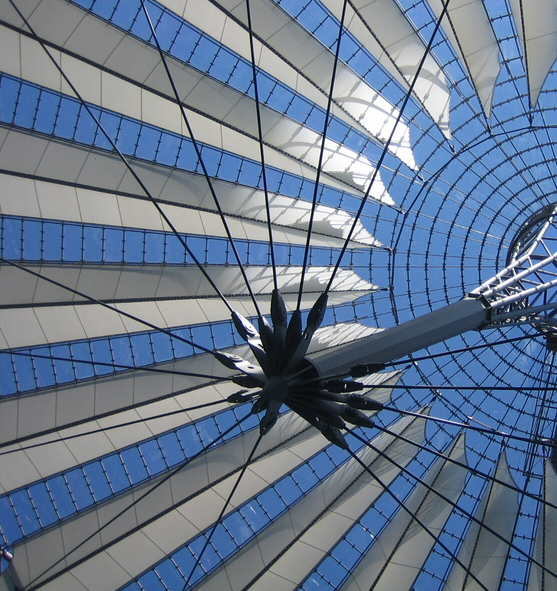
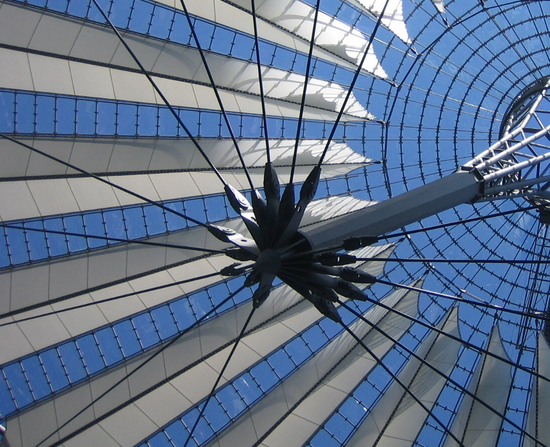
cleared layout objectFit warnings. Set text colors to white at Reviews and  ownerToClient modules

diff --git a/components/owner to client/ownerToClient.jsx b/components/owner to client/ownerToClient.jsx
@@ -1,90 +1,38 @@
 import Image from "next/image"
-import { FaArrowLeftLong, FaBuildingUser, FaFileLines, FaKey } from "react-icons/fa6"
-import { MdEmail, MdOutlineMarkEmailRead } from "react-icons/md"
+import { FaRegFileAlt } from "react-icons/fa"
+
+import { MdOutlineMarkEmailRead } from "react-icons/md"
 
 const OwnerToClient = () => {
     return (
-        <div className="flex md:flex-row flex-col items-center justify-center gap-20 mx-auto md:w-[90%] w-[100%]">
-            <div className="md:w-1/2 w-full">
-                <div>
-                    <div className="flex items-start justify-center rounded-md border-2 border-gray-200 max-h-[350px] p-10">
-                        <div>
-                            <h3 className="text-gray-900 font-bold text-2xl mb-1">For Renters</h3>
-                            <p className="text-white">Find your dream rental property. Bookmark properties and contact owners.</p>
-                        </div>
-                    </div>
-                    <div className="flex items-center justify-center mx-auto w-[50%] h-[100px] gap-10 p-10">
-                        <div className="flex items-start justify-center bg-transparent">
-                            <div className="flex items-start justify-start h-[100px] bg-transparent animate-topToBottom">  <MdEmail className="text-3xl" /> Email </div>
-                        </div>
-                        <div className="flex items-start justify-center bg-transparent ">
-                            <div className="flex items-end justify-end h-[100px] delay-300  bg-transparent animate-bottomToTop">  <FaFileLines className="text-3xl" />Confirmation</div>
-                        </div>
-                    </div>
 
-                    <div className="flex items-start justify-center rounded-md border-2 border-gray-200 max-h-[350px] p-10">
-                        <div>
-                            <h3 className="text-gray-900 font-bold text-2xl mb-1 ">For Property Owners</h3>
-                            <p className="text-white">Find your dream rental property. Bookmark properties and contact owners.</p>
-                        </div>
+        <div className="flex flex-col items-center justify-center border-[0.3px] border-blue-900 rounded-md p-5">
+            <div className="flex items-start justify-center  min-h-[100px]">
+                <div className="flex items-center justify-center gap-10 text-white w-full h-full p-5">
+
+                    <div>
+                        <h3 className="font-bold text-2xl mb-1">For Renters</h3>
+                        <p className="text-slate-200">Find your dream rental property. Bookmark properties and contact owners directly.</p></div>
+                </div>
+            </div>
+            <div className="flex items-center justify-between mx-auto w-[40%] h-[100px]">
+                <div className="flex items-start justify-center w-[0.2px] bg-gray-900/20">
+                    <div className="flex items-start justify-start h-[100px] bg-transparent animate-topToBottom">  <MdOutlineMarkEmailRead className="text-3xl" /></div>
+                </div>
+                <div className="flex items-start justify-center w-[0.2px] bg-gray-900/20">
+                    <div className="flex items-end justify-end h-[100px] delay-300 animate-bottomToTop">  <FaRegFileAlt className="text-3xl text-gray-900" /></div>
+                </div>
+            </div>
+
+            <div className="flex items-start justify-center min-h-[100px]">
+                <div className="flex items-center justify-center gap-10 text-white w-full h-full p-5">
+                    <div className="text-right w-full">
+                        <h3 className="font-bold text-2xl mb-1 text-right">For Owners</h3>
+                        <p className="text-slate-200">Get your property information  and your conformation in your inbox. </p>
                     </div>
                 </div>
             </div>
-            <div className="flex-1">
-                <h1 className="text-3xl font-semibold text-center text-gray-900 py-5">User Reviews</h1>
-                <div>
-                    <ul role="list" className="divide-y divide-gray-100">
-                        <li className="flex justify-between gap-x-6 py-5">
-                            <div className="flex min-w-0 gap-x-4">
-                                <Image className="h-12 w-12 flex-none rounded-full bg-gray-50" width="40" height="40" src="https://images.unsplash.com/photo-1494790108377-be9c29b29330?ixlib=rb-1.2.1&ixid=eyJhcHBfaWQiOjEyMDd9&auto=format&fit=facearea&facepad=2&w=256&h=256&q=80" alt="" />
-                                <div className="min-w-0 flex-auto">
-                                    <p className="text-sm font-semibold leading-6 text-gray-900">Leslie Alexander</p>
-                                    <p className="mt-1 truncate text-xs leading-5 text-white">leslie.alexander@example.com</p>
-                                </div>
-                            </div>
-                            <div className="hidden shrink-0 sm:flex sm:flex-col sm:items-end">
-                                <p className="text-sm leading-6 text-gray-900">Co-Founder / CEO</p>
-                                <p className="mt-1 text-xs leading-5 text-white">Last seen <time dateTime="2023-01-23T13:23Z">3h ago</time></p>
-                            </div>
-                        </li>
-                        <li className="flex justify-between gap-x-6 py-5">
-                            <div className="flex min-w-0 gap-x-4">
-                                <img className="h-12 w-12 flex-none rounded-full bg-gray-50" width="40" height="40" src="https://images.unsplash.com/photo-1519244703995-f4e0f30006d5?ixlib=rb-1.2.1&ixid=eyJhcHBfaWQiOjEyMDd9&auto=format&fit=facearea&facepad=2&w=256&h=256&q=80" alt="" />
-                                <div className="min-w-0 flex-auto">
-                                    <p className="text-sm font-semibold leading-6 text-gray-900">Michael Foster</p>
-                                    <p className="mt-1 truncate text-xs leading-5 text-white">michael.foster@example.com</p>
-                                </div>
-                            </div>
-                            <div className="hidden shrink-0 sm:flex sm:flex-col sm:items-end">
-                                <p className="text-sm leading-6 text-gray-900">Co-Founder / CTO</p>
-                                <p className="mt-1 text-xs leading-5 text-white">Last seen <time dateTime="2023-01-23T13:23Z">3h ago</time></p>
-                            </div>
-                        </li>
-                        <li className="flex justify-between gap-x-6 py-5">
-                            <div className="flex min-w-0 gap-x-4">
-                                <img className="h-12 w-12 flex-none rounded-full bg-gray-50" width="40" height="40" src="https://images.unsplash.com/photo-1506794778202-cad84cf45f1d?ixlib=rb-1.2.1&ixid=eyJhcHBfaWQiOjEyMDd9&auto=format&fit=facearea&facepad=2&w=256&h=256&q=80" alt="" />
-                                <div className="min-w-0 flex-auto">
-                                    <p className="text-sm font-semibold leading-6 text-gray-900">Dries Vincent</p>
-                                    <p className="mt-1 truncate text-xs leading-5 text-white">dries.vincent@example.com</p>
-                                </div>
-                            </div>
-                            <div className="hidden shrink-0 sm:flex sm:flex-col sm:items-end">
-                                <p className="text-sm leading-6 text-gray-900">Business Relations</p>
-                                <div className="mt-1 flex items-center gap-x-1.5">
-                                    <div className="flex-none rounded-full bg-emerald-500/20 p-1">
-                                        <div className="h-1.5 w-1.5 rounded-full bg-emerald-500"></div>
-                                    </div>
-                                    <p className="text-xs leading-5 text-white">Online</p>
-                                </div>
-                            </div>
-                        </li>
-                    </ul>
-                </div>
-
-            </div>
-
         </div>
-
 
     )
 }

diff --git a/components/reviews/reviews.jsx b/components/reviews/reviews.jsx
@@ -1,0 +1,79 @@
+import Image from 'next/image'
+import React from 'react'
+
+const Reviews = () => {
+    return (
+        <div className='flex flex-col items-center justify-center md:w-1/2 w-full  border-[0.3px] border-blue-900 rounded-md p-5'>
+            <h1 className="text-3xl font-semibold text-center text-white py-5">User Reviews</h1>
+            <div className='w-full'>
+                <ul role="list" className="divide-y divide-gray-100">
+                    <li className="flex justify-between gap-x-6 py-5">
+                        <div className="flex min-w-0 gap-x-4">
+                            <Image className="h-12 w-12 flex-none rounded-full bg-gray-50" width="40" height="40" src="https://images.unsplash.com/photo-1494790108377-be9c29b29330?ixlib=rb-1.2.1&ixid=eyJhcHBfaWQiOjEyMDd9&auto=format&fit=facearea&facepad=2&w=256&h=256&q=80" alt="" />
+                            <div className="min-w-0 flex-auto">
+                                <p className="text-sm font-semibold leading-6 text-slate-200">Leslie Alexander</p>
+                                <p className="mt-1 truncate text-xs leading-5 text-white">leslie.alexander@example.com</p>
+                            </div>
+                        </div>
+                        <div className="hidden shrink-0 sm:flex sm:flex-col sm:items-end">
+                            <p className="text-sm leading-6 text-slate-200">Co-Founder / CEO</p>
+                            <p className="mt-1 text-xs leading-5 text-white">Last seen <time dateTime="2023-01-23T13:23Z">3h ago</time></p>
+                        </div>
+                    </li>
+                    <li className="flex justify-between gap-x-6 py-5">
+                        <div className="flex min-w-0 gap-x-4">
+                            <img className="h-12 w-12 flex-none rounded-full bg-gray-50" width="40" height="40" src="https://images.unsplash.com/photo-1519244703995-f4e0f30006d5?ixlib=rb-1.2.1&ixid=eyJhcHBfaWQiOjEyMDd9&auto=format&fit=facearea&facepad=2&w=256&h=256&q=80" alt="" />
+                            <div className="min-w-0 flex-auto">
+                                <p className="text-sm font-semibold leading-6 text-slate-200">Michael Foster</p>
+                                <p className="mt-1 truncate text-xs leading-5 text-white">michael.foster@example.com</p>
+                            </div>
+                        </div>
+                        <div className="hidden shrink-0 sm:flex sm:flex-col sm:items-end">
+                            <p className="text-sm leading-6 text-slate-200">Co-Founder / CTO</p>
+                            <p className="mt-1 text-xs leading-5 text-white">Last seen <time dateTime="2023-01-23T13:23Z">3h ago</time></p>
+                        </div>
+                    </li>
+                    <li className="flex justify-between gap-x-6 py-5">
+                        <div className="flex min-w-0 gap-x-4">
+                            <img className="h-12 w-12 flex-none rounded-full bg-gray-50" width="40" height="40" src="https://images.unsplash.com/photo-1506794778202-cad84cf45f1d?ixlib=rb-1.2.1&ixid=eyJhcHBfaWQiOjEyMDd9&auto=format&fit=facearea&facepad=2&w=256&h=256&q=80" alt="" />
+                            <div className="min-w-0 flex-auto">
+                                <p className="text-sm font-semibold leading-6 text-slate-200">Dries Vincent</p>
+                                <p className="mt-1 truncate text-xs leading-5 text-white">dries.vincent@example.com</p>
+                            </div>
+                        </div>
+                        <div className="hidden shrink-0 sm:flex sm:flex-col sm:items-end">
+                            <p className="text-sm leading-6 text-slate-200">Business Relations</p>
+                            <div className="mt-1 flex items-center gap-x-1.5">
+                                <div className="flex-none rounded-full bg-emerald-500/20 p-1">
+                                    <div className="h-1.5 w-1.5 rounded-full bg-emerald-500"></div>
+                                </div>
+                                <p className="text-xs leading-5 text-white">Online</p>
+                            </div>
+                        </div>
+                    </li>
+                    <li className="flex justify-between gap-x-6 py-5">
+                        <div className="flex min-w-0 gap-x-4">
+                            <img className="h-12 w-12 flex-none rounded-full bg-gray-50" width="40" height="40" src="https://images.unsplash.com/photo-1506794778202-cad84cf45f1d?ixlib=rb-1.2.1&ixid=eyJhcHBfaWQiOjEyMDd9&auto=format&fit=facearea&facepad=2&w=256&h=256&q=80" alt="" />
+                            <div className="min-w-0 flex-auto">
+                                <p className="text-sm font-semibold leading-6 text-slate-200">Dries Vincent</p>
+                                <p className="mt-1 truncate text-xs leading-5 text-white">dries.vincent@example.com</p>
+                            </div>
+                        </div>
+                        <div className="hidden shrink-0 sm:flex sm:flex-col sm:items-end">
+                            <p className="text-sm leading-6 text-slate-200">Business Relations</p>
+                            <div className="mt-1 flex items-center gap-x-1.5">
+                                <div className="flex-none rounded-full bg-emerald-500/20 p-1">
+                                    <div className="h-1.5 w-1.5 rounded-full bg-emerald-500"></div>
+                                </div>
+                                <p className="text-xs leading-5 text-white">Online</p>
+                            </div>
+                        </div>
+                    </li>
+                </ul>
+            </div>
+
+        </div>
+    )
+}
+
+export default Reviews

diff --git a/components/hero/hero.jsx b/components/hero/hero.jsx
@@ -3,8 +3,7 @@ import Benefits from '../benefits/benefits'
 
 const Hero = () => {
     return (
-        <div className="flex flex-col items-center justify-center bg-blue-900 h-[660px] md:h-[570px] pt-2 text-white z-index-10">
-
+        <div className="flex flex-col items-center justify-center bg-blue-900 h-[660px] md:h-[650px] pt-2 text-white z-index-10">
             <div className="relative flex flex-col items-center justify-center">
                 <h2 className="md:text-5xl text-4xl text-white font-bold mb-10">Find The Perfect Rental</h2>
                 <span className="relative max-w-[400px] text-2xl text-center text-white font-normal mb-5">Discover the perfect property that suits your needs.</span>
@@ -13,7 +12,7 @@ const Hero = () => {
                     <form action="" className="mx-auto max-w-2xl w-full flex flex-col md:flex-row items-center gap-5 text-gray-700">
                         <div className="w-full md:w-7/8 mb-2 md:mb-0">
                             <label htmlFor="location" className="sr-only">Location</label>
-                            <input type="text" placeholder="Enter your location" name="location" className="p-3 w-full rounded-md" />
+                            <input type="text" placeholder="Enter your location" name="location" className="p-3 w-full rounded-md" id="location" />
                         </div>
                         <div className="w-full md:pl-10 md:pr-10">
                             <label htmlFor="location" className="sr-only">Property Type</label>
@@ -29,11 +28,9 @@ const Hero = () => {
                                 <option name="Other">Other</option>
                             </select>
                         </div>
-
-                        <button type="submit" className="display-block w-full px-6 py-3 rounded-lg bg-blue-500 text-white hover:bg-blue-600 focus:outline-none focus:ring focus:ring-blue-500">
+                        <button type="submit" className="display-block w-full px-6 py-3 mb-10 md:mb-0 rounded-lg bg-blue-500 text-white hover:bg-blue-600 focus:outline-none focus:ring focus:ring-blue-500">
                             Search
                         </button>
-
                     </form>
                 </div>
             </div>

diff --git a/components/footer /footer.jsx b/components/footer /footer.jsx
@@ -1,16 +1,29 @@
+import Link from "next/link";
 import React from "react";
+import { IoBedOutline } from "react-icons/io5";
 
 const Footer = () => {
   return (
-    <footer className='max-w-7xl mx-auto bg-white mt-5 mb-5'>
-      <nav className='flex justify-between gap-10 bg-white p-5'>
-        <div>
-          <h1>Logo</h1>
+    <footer className='bg-blue-900  h-50 mx-auto mt-5'>
+
+      <div className="flex flex-row items-center justify-between p-5 w-full h-[110px]">
+        <div className="text-white cursor-pointer ml-10">
+          <Link href="/" className="flex flex-row items-center justify-center gap-3">
+            <IoBedOutline size="3.8em" className="text-white" />
+            <div className="flex flex-col items-center justify-center">
+              <h1 className="text-[20px] ">ARAN RENTALS</h1>
+              <hr className="w-[40px] text-white" />
+              <span className="text-[18px] font-bold tracking-[.10em]">
+                World <b className="text-blue-900">&</b> Living
+              </span>
+            </div>
+          </Link>
         </div>
-        <div>
-          <h1>rest</h1>
+
+        <div className="mr-10">
+          <p className="text-white text-md">Copyright all right reserved {new Date().getFullYear()}</p>
         </div>
-      </nav>
+      </div>
     </footer>
   );
 };

diff --git a/components/topNav/topNav.jsx b/components/topNav/topNav.jsx
@@ -13,14 +13,15 @@ const TopNavComponent = () => {
   const pathname = usePathname();
 
   return (
-    <header className='relative w-full h-[max-content] bg-blue-600/70 '>
-      <Image
-        src="/navImages/sony-center.png"
-        layout="fill"
-
-        className="absolute md:max-w-[70%] max-w-[100%] max-h-full object-cover aspect-video opacity-20 mr-0 ml-auto"
-        style={{ clipPath: "circle(75% at 90% 30%)" }}
-        alt="hero" />
+    <header className='relative bg-blue-600/70'>
+      <div className="absolute w-[100%] lg:w-[80%] h-[100%] opacity-20 right-0 top-0 ">
+        <Image
+          src="/navImages/sony-center.png"
+          fill
+          style={{ clipPath: "circle(80% at 100% 50%)", objectFit: "cover" }}
+          alt="hero"
+          priority
+        /></div>
       <nav className="flex flex-row items-center justify-between p-5 w-full h-[110px]">
         <div className="relative text-white cursor-pointer">
           <Link href="/" className="flex flex-row items-center justify-center gap-3">

diff --git a/components/tooltip/tooltip.jsx b/components/tooltip/tooltip.jsx
@@ -7,7 +7,7 @@ const Tooltip = ({ message, position, children }) => {
   return (
     <div className='group relative flex items-center'>
       {children}
-      <span className={`absolute flex items-center justify-center left-[40%] min-w-[max-content] max-w-[200px] md:translate-x-[-50%] translate-x-[-80%] top-11 scale-0 transition-all rounded bg-blue-900  p-5 text-xs shadow-md shadow-slate-800  text-white group-hover:scale-100`}>
+      <span className={`absolute flex items-center justify-center left-[40%] min-w-[max-content] max-w-[200px] md:translate-x-[-50%] translate-x-[-80%] top-11 scale-0 transition-all rounded bg-blue-900  p-5 text-xs shadow-md shadow-slate-800  text-white group-hover:scale-100 z-50 overflow-visible`}>
         <div
           id='arrow'
           className={`invisible absolute h-2 w-2 bg-inherit top-[-4px] md:left-[50%] left-[80%] before:visible before:absolute before:h-2 before:w-2 before:rotate-45 before:bg-inherit before:content-['']`}

diff --git a/app/layout.js b/app/layout.js
@@ -9,6 +9,17 @@ const inter = Inter({ subsets: ["latin"] });
 export const metadata = {
   title: { default: "Amazing Rentals in Germany", template: "%s | German Rentals" },
   description: "Apartments, houses and villas for rent in Germany",
+  metadataBase: new URL('https://acme.com'),
+  alternates: {
+    canonical: '/',
+    languages: {
+      'en-US': '/en-US',
+      'de-DE': '/de-DE',
+    },
+  },
+  openGraph: {
+    images: '/opengraph-image.png',
+  },
   twitter: {
     card: "summary_large_image",
     title: "Amazing Rentals in Germany",
@@ -26,7 +37,9 @@ export default function RootLayout({ children }) {
           <TopNavComponent />
         </div>
         <main className="md:w-5/6 w-full mx-auto mb-0 ">{children}</main>
-        <Footer />
+        <div className="md:w-5/6 w-full mx-auto mb-0 ">
+          <Footer />
+        </div>
       </body>
     </html>
   );

diff --git a/app/page.js b/app/page.js
@@ -1,9 +1,19 @@
 import OwnerToClient from "@/components/owner to client/ownerToClient";
+import Reviews from "@/components/reviews/reviews";
 
 export default function Home() {
   return (
-    <main className="w-full h-1/2 bg-blue-600/70 p-5">
-      <OwnerToClient />
+    <main>
+      <section className="w-full bg-white">
+        <div>Cards</div>
+      </section>
+      <section className="flex md:flex-row flex-col gap-10  w-full bg-blue-600/70 p-10 ">
+
+        <OwnerToClient className="flex-1" />
+
+        <Reviews className="flex-1" />
+
+      </section>
     </main>
   );
 }

diff --git a/tailwind.config.js b/tailwind.config.js
@@ -11,7 +11,7 @@ module.exports = {
         topToBottom: {
           '0%': {
             transform: 'translateY(0%)',
-            opacity: '0.3'
+            opacity: '0.5'
           },
           '100%': {
             transform: ' translateY(100%)',
@@ -25,7 +25,7 @@ module.exports = {
           },
           '0%': {
             transform: 'translateY(0%)',
-            opacity: '0.3'
+            opacity: '0.5'
           }
         }
       },

diff --git a/components/topNav/loginTab/loginTab.jsx b/components/topNav/loginTab/loginTab.jsx
@@ -17,7 +17,7 @@ const LoginTab = () => {
   return (
     <>
       {!isLoggedIn ? (
-        <div className='relative flex items-center justify-center md:gap-5 gap-2'>
+        <div className='relative flex items-center justify-center md:gap-5 gap-2 z-50 overflow-visible'>
 
           <Link href='/login'>
             <Tooltip
